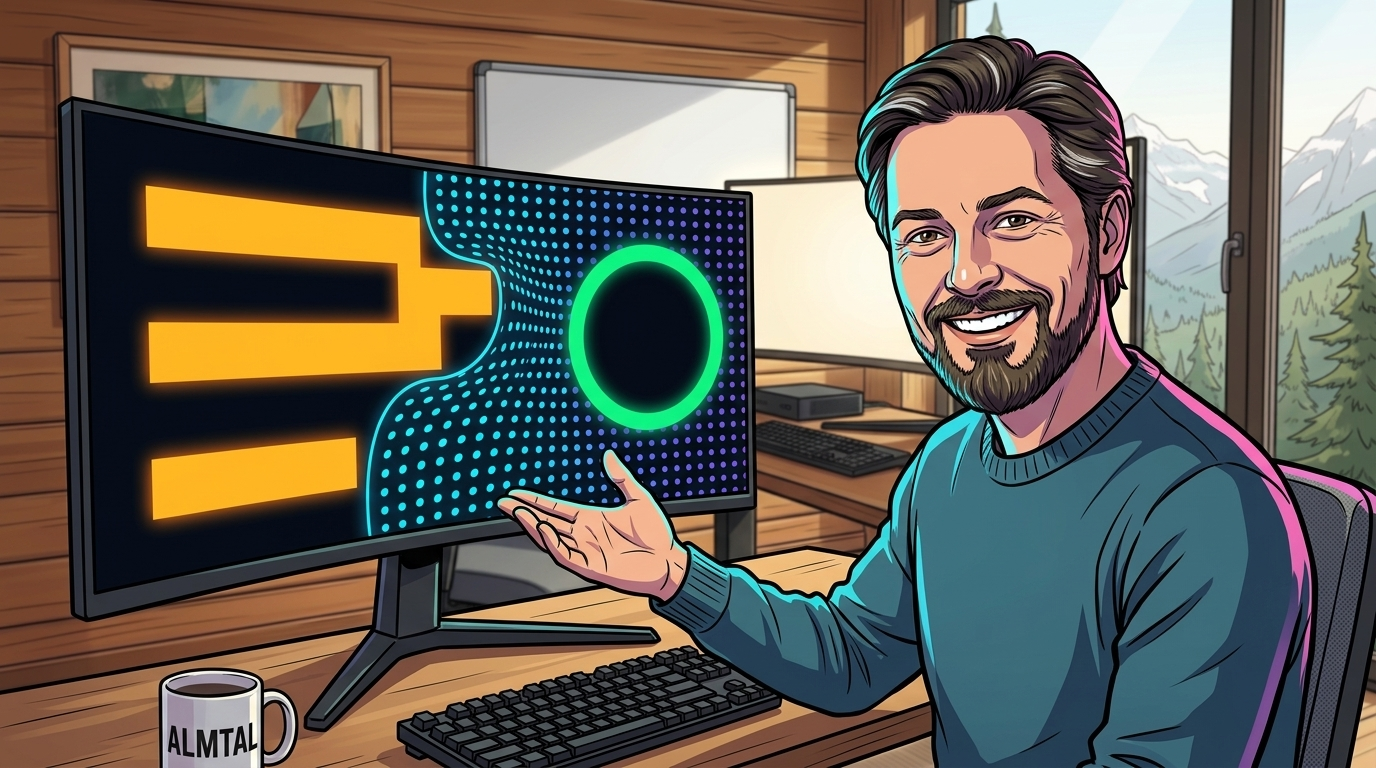
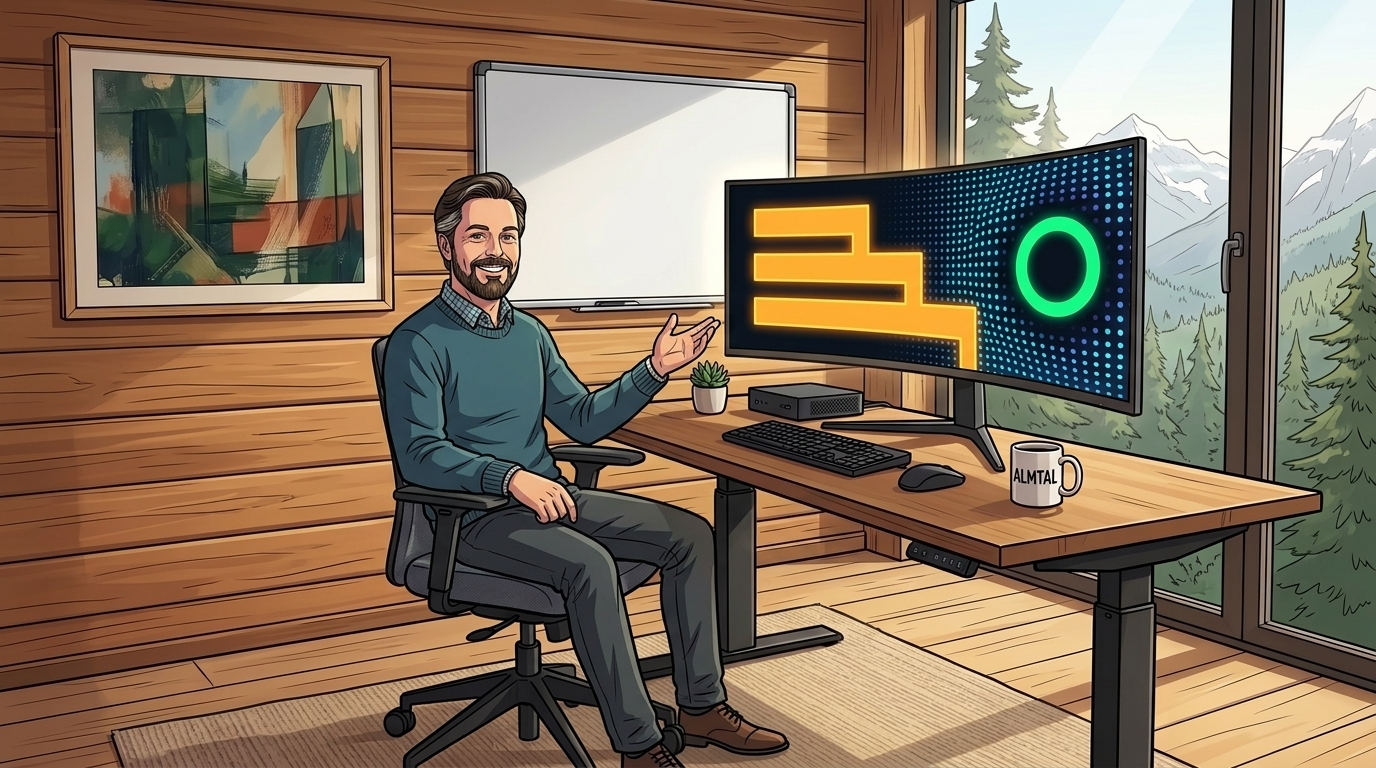
fix(posts,skills): replace post hero image with slot-aligned single-monitor render and document Zero Spatial Slot Inversion rule

diff --git a/.agents/skills/image-generation/resources/archetypes/posts.md b/.agents/skills/image-generation/resources/archetypes/posts.md
@@ -15,7 +15,7 @@ A lived-in, authentic engineering workshop or modern timber home office where te
 ## Camera Framing & Cinematographic Zonation
 * **Perspective**: Dynamic three-quarters eye-level perspective or medium shot.
 * **Foreground (FG)**: Nearest desk edge, mechanical keyboard, mouse, succulent plant, and signature `almtal-ceramic-mug`.
-* **Midground (MG)**: Primary focal target — curved ultra-wide monitor displaying article-specific code or architecture schematics, ergonomic chair, Georg actively working.
+* **Midground (MG)**: Primary focal target — in `home-office-almtal/workplace-focus.jpg`, Dr. Georg Hackenberg sits in the **center-left midground** in the grey ergonomic swivel chair while the **single curved ultra-wide monitor sits in the center-right midground** displaying article-specific code or architecture schematics (matching the exact `workplace-focus.jpg` geometry so no second monitor is hallucinated).
 * **Background (BG)**: Horizontal pine timber walls with subtle dark woodgrain ink lines, rear magnetic whiteboard with flowcharts, framed `almtal-abstract-painting` on the left wall, and a floor-to-ceiling panoramic window framing alpine peaks and pine forests.
 
 ## Environment & Palette
@@ -26,5 +26,5 @@ A lived-in, authentic engineering workshop or modern timber home office where te
 ## Canonical Prompt Template
 
 ```text
-Dynamic three-quarters eye-level perspective inside a contemporary timber home office in Grünau im Almtal (Wolf Haus architecture). In the midground, Dr. Georg Hackenberg (early 40s, neatly groomed styled dark brown hair with silver temple highlights, neatly trimmed full beard, warm genuine smile, wearing a casual petrol blue knit sweater) is seated in a modern grey ergonomic swivel chair at his height-adjustable standing desk, turning warmly three-quarters towards the viewer while working on a software engineering project. On the desk, a curved ultra-wide monitor displays [article-specific code / architecture diagrams / technical visual]. Foreground desk edge features a black mechanical keyboard, mouse, small potted succulent, and an ALMTAL ceramic mug. In the background, warm horizontal pine timber walls with delicate dark woodgrain ink lines, a framed modern abstract art painting on the left, a centered magnetic whiteboard with architectural flowcharts, and a massive floor-to-ceiling panoramic window revealing snow-capped alpine mountains and dense pine forests. Stylized Disney/Pixar comic-book vector illustration, crisp dark ink outlines, bold cel shading, dark slate palette (#030712) with vibrant brand blue (#3b82f6) and emerald green (#10b981) accents. 16:9 aspect ratio.
+Dynamic three-quarters eye-level perspective inside a contemporary timber home office in Grünau im Almtal (Wolf Haus architecture). In the center-left midground, Dr. Georg Hackenberg (early 40s, neatly groomed styled dark brown hair with silver temple highlights, neatly trimmed full beard, warm genuine smile, wearing a casual petrol blue knit sweater) is seated in the modern grey ergonomic swivel chair at his height-adjustable standing desk, turning warmly three-quarters towards the viewer while working on a software engineering project. In the center-right midground on the desk, the single curved ultra-wide monitor displays [article-specific code / architecture diagrams / technical visual]. Foreground desk edge features a black mechanical keyboard, mouse, small potted succulent, and an ALMTAL ceramic mug. In the background, warm horizontal pine timber walls with delicate dark woodgrain ink lines, a framed modern abstract art painting on the left, a centered magnetic whiteboard with architectural flowcharts, and a massive floor-to-ceiling panoramic window revealing snow-capped alpine mountains and dense pine forests. Stylized Disney/Pixar comic-book vector illustration, crisp dark ink outlines, bold cel shading, dark slate palette (#030712) with vibrant brand blue (#3b82f6) and emerald green (#10b981) accents. 16:9 aspect ratio.
 ```

diff --git a/.agents/skills/image-generation/resources/diffusion-conditioning.md b/.agents/skills/image-generation/resources/diffusion-conditioning.md
@@ -50,6 +50,11 @@ To achieve consistent perspective without the layout-locking trap, the repositor
 * **Anchor 2 (Environment)**: Matching pre-rendered focus variant (`src/content/environments/[id]/[variant].jpg`).
 * **Anchor 3 (Object - Optional)**: Clean, isolated, planar reference item (`src/content/objects/[id]/reference.jpg`).
 
+### Zero Spatial Slot Inversion (Left/Right Alignment Contract)
+* When conditioning on a pre-rendered environment focus variant (e.g., `workplace-focus.jpg` where the ergonomic chair slot `workstation-operator` is in the **center-left midground** and the single curved ultra-wide monitor is in the **center-right midground**), **NEVER** invert the left/right positions of the character and focal object in the text prompt.
+* Inverting left and right against the reference image causes the vision encoder to hallucinate a second duplicate object (e.g., painting a new monitor on the left to satisfy the text prompt while keeping the original monitor from the reference image in the background on the right).
+* Always match the exact `spatialPlacement` defined in the environment's `characterSlots`.
+
 ## 4. Central Visual Asset Library & Relational Graph
 
 All recurring visual entities are managed as typed Astro content collections with cross-references:
